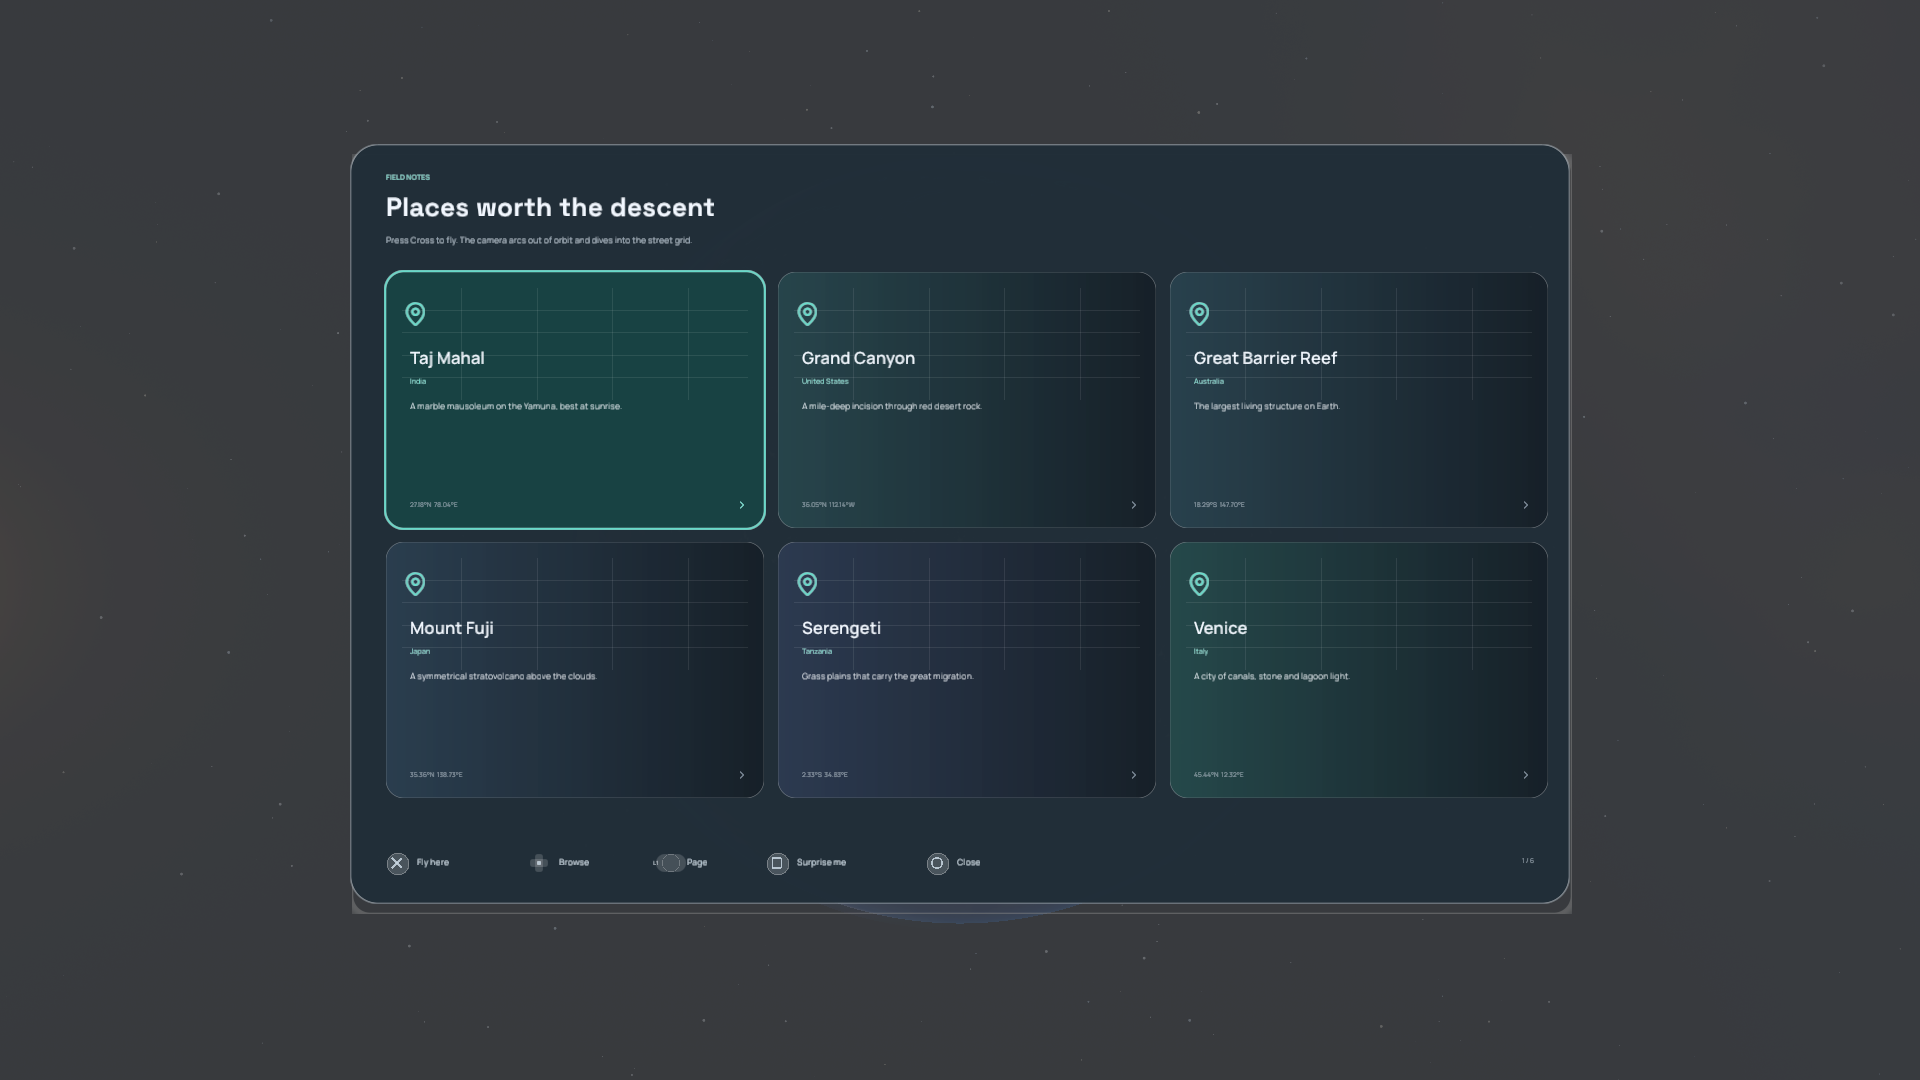
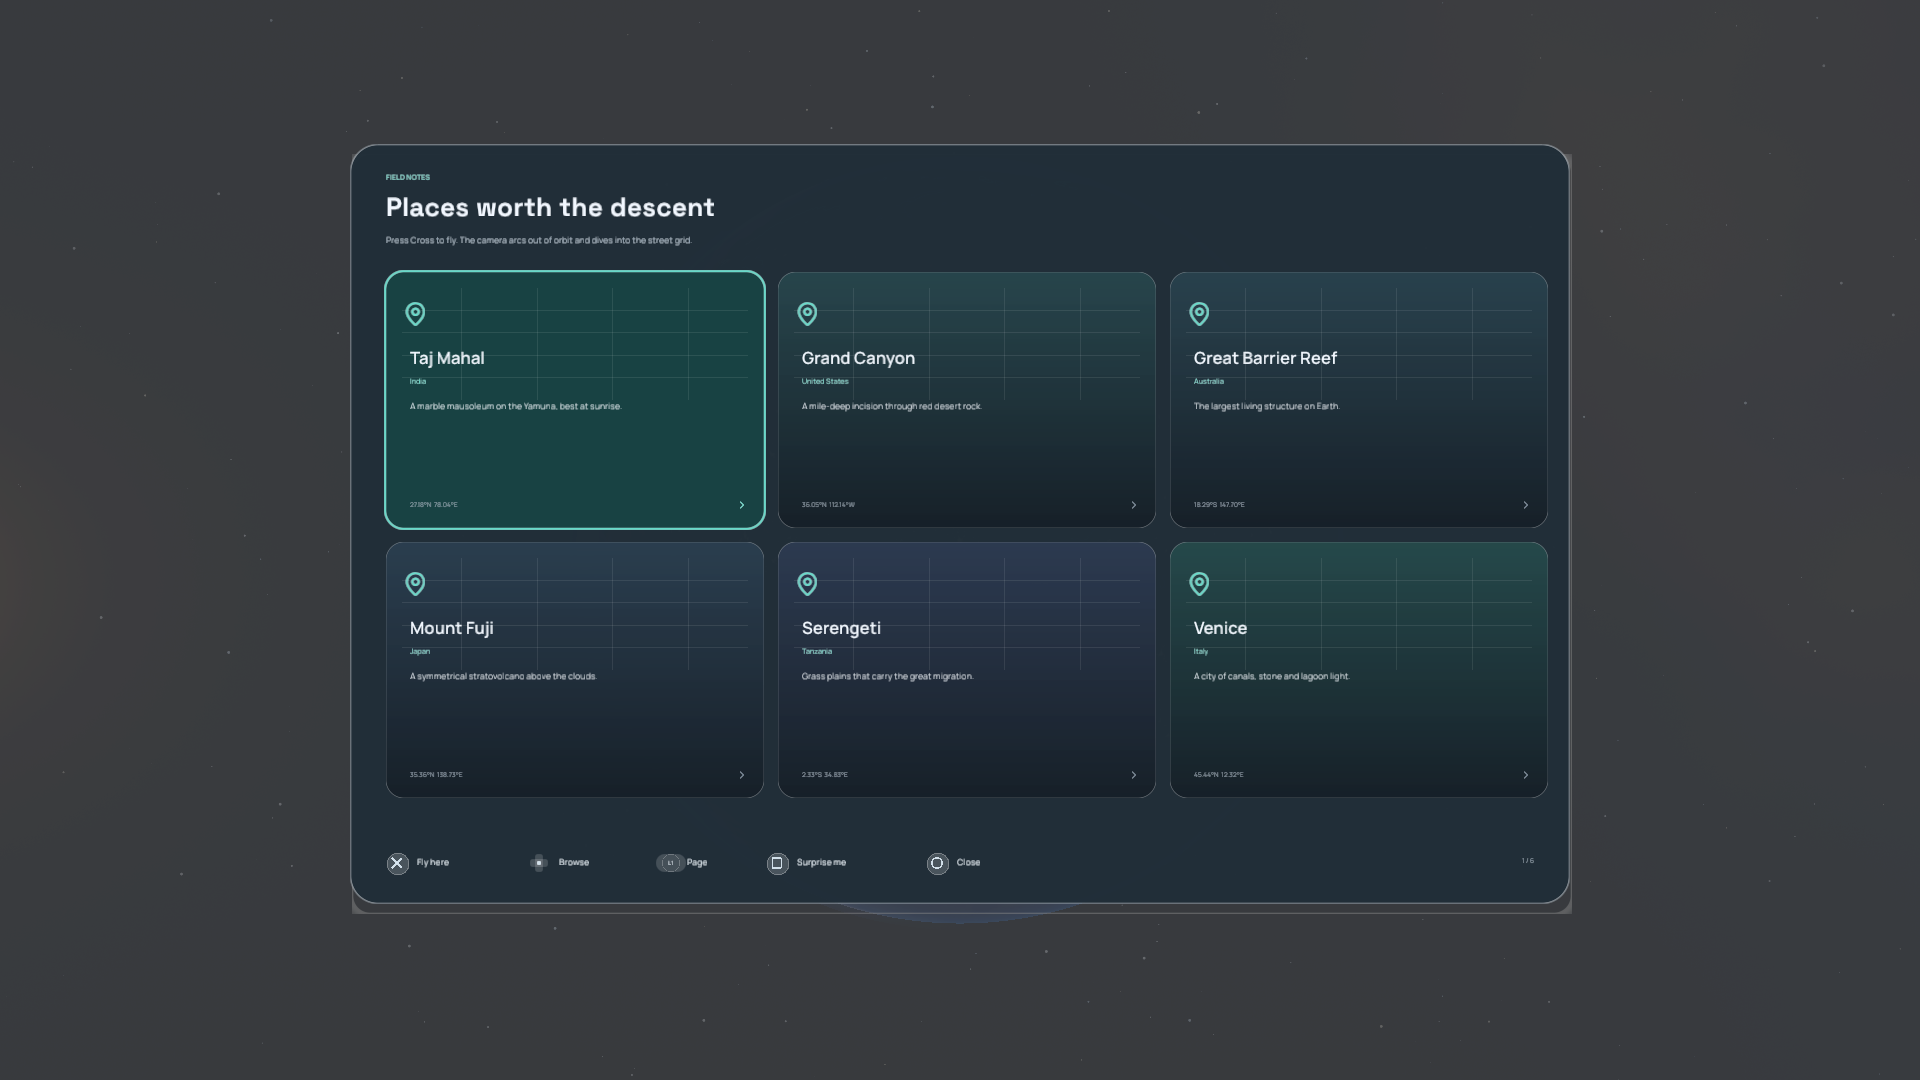
Polish HUD alignment, wind density and final screenshots

diff --git a/src/app/screens.cpp b/src/app/screens.cpp
@@ -73,8 +73,8 @@ void App::draw_brand(float x, float y, float scale) {
 
 void App::draw_top_bar() {
     const float w = ui_.virtual_width();
-    ui_.rect({0, 0, w, 92}, hex(0x03070C, 0.78f));
-    ui_.rounded_rect_gradient({0, 92, w, 72}, 0, hex(0x03070C, 0.78f), hex(0x03070C, 0.0f));
+    ui_.rect({0, 0, w, 92}, hex(0x03070C, 0.92f));
+    ui_.gradient_rect({0, 92, w, 88}, hex(0x03070C, 0.92f), hex(0x03070C, 0.0f));
     draw_brand(44, 24, 1.0f);
 
     const float tab_w = 152;
@@ -529,8 +529,9 @@ void App::draw_center_reticle() {
     name_style.max_width = pill.w;
     ui_.text(name_style, label, pill.x, pill.y + 6);
     if (!camera_.flying) {
-        ui_.text(style(ui_.font_ui(), 8.5f, kDim, 1), "PRESS CROSS TO FLY HERE", pill.x,
-                 pill.y + 31);
+        TextStyle hint = style(ui_.font_ui(), 9.5f, kMuted, 1);
+        hint.max_width = pill.w;
+        ui_.text(hint, "PRESS CROSS TO FLY HERE", pill.x, pill.y + 31);
     } else {
         const float progress = static_cast<float>(clamp(camera_.fly_t, 0.0, 1.0));
         ui_.rounded_rect({pill.x + 16, pill.y + pill.h + 7, (pill.w - 32) * progress, 2}, 1, kWarm);
@@ -606,7 +607,7 @@ void App::draw_globe_hud() {
     draw_map_style_pill();
     draw_layer_rail();
     draw_weather_card(card);
-    ui_.rounded_rect_gradient({0, h - 154, w, 154}, 0, hex(0x02050A, 0.0f), hex(0x02050A, 0.82f));
+    ui_.gradient_rect({0, h - 160, w, 160}, hex(0x02050A, 0.0f), hex(0x02050A, 0.92f));
     draw_controller_prompts();
     draw_attribution();
     if (modal_ != ModalNone) return;
@@ -635,7 +636,8 @@ void App::draw_controller_prompts() {
 
 void App::draw_prompt(float x, float y, const char *glyph, const std::string &label) {
     const std::string key = glyph;
-    const Color line = hex(0xBFD0DD, 0.86f);
+    const Color line = hex(0xD7E6F1, 0.95f);
+    float label_x = x + 31;
     if (key == "cross" || key == "circle" || key == "square" || key == "triangle") {
         ui_.circle(x + 12, y + 12, 11, hex(0xFFFFFF, 0.10f));
         ui_.ring(x + 12, y + 12, 11, 1.0f, hex(0xFFFFFF, 0.18f));
@@ -659,15 +661,18 @@ void App::draw_prompt(float x, float y, const char *glyph, const std::string &la
         ui_.rounded_rect({x + 7, y + 2, 8, 18}, 3, hex(0xFFFFFF, 0.09f));
         ui_.circle(x + 11, y + 11, 2.2f, line);
     } else {
-        const Rect pill(x, y + 2, 30, 18);
+        const float key_width = (key == "options" || key == "touchpad") ? 46.0f : 30.0f;
+        const Rect pill(x, y + 2, key_width, 18);
         ui_.rounded_rect(pill, 9, hex(0xFFFFFF, 0.09f));
-        ui_.ring(x + 15, y + 11, 9, 0.8f, hex(0xFFFFFF, 0.14f));
+        ui_.ring(x + key_width * 0.5f, y + 11, 9, 0.8f, hex(0xFFFFFF, 0.14f));
         TextStyle key_style = style(ui_.font_semibold(), 8, line, 1);
+        key_style.max_width = pill.w;
         std::string text = key;
         for (auto &c : text) c = static_cast<char>(std::toupper(static_cast<unsigned char>(c)));
         ui_.text(key_style, text, pill.x, pill.y + 5);
+        label_x = x + key_width + 1.0f;
     }
-    ui_.text(style(ui_.font_medium(), 12, kMuted), label, x + 31, y + 4);
+    ui_.text(style(ui_.font_medium(), 12, hex(0xD9E6EF, 0.95f)), label, label_x, y + 4);
 }
 
 void App::draw_attribution() {
@@ -767,10 +772,12 @@ void App::draw_flights_hud() {
         ui_.rounded_rect({mode.x + 94, mode.y + 3, 90, 26}, 13, hex(0x23313F, 0.95f));
     else
         ui_.rounded_rect({mode.x + 3, mode.y + 3, 90, 26}, 13, hex(0x123B3C, 0.95f));
-    ui_.text(style(ui_.font_semibold(), 10, flight_world_ ? kMuted : kAccent, 1), "LOCAL",
-             mode.x + 3, mode.y + 10);
-    ui_.text(style(ui_.font_semibold(), 10, flight_world_ ? kText : kMuted, 1), "WORLD",
-             mode.x + 94, mode.y + 10);
+    TextStyle mode_style = style(ui_.font_semibold(), 10,
+                                 flight_world_ ? kMuted : kAccent, 1);
+    mode_style.max_width = 90;
+    ui_.text(mode_style, "LOCAL", mode.x + 3, mode.y + 10);
+    mode_style.color = flight_world_ ? kText : kMuted;
+    ui_.text(mode_style, "WORLD", mode.x + 94, mode.y + 10);
     add_hit(mode, [this] {
         flight_world_ = !flight_world_;
         camera_.set_focus(settings_.home_lat, settings_.home_lon, flight_world_ ? 12000000.0 : 2200000.0);
@@ -827,8 +834,10 @@ void App::draw_flights_hud() {
         ui_.text(style(ui_.font_display_bold(), 24, kText), callsign, detail.x + 20, detail.y + 16);
         ui_.rounded_rect({detail.x + detail.w - 116, detail.y + 16, 96, 22}, 11,
                          hex(0x123B3C, 0.8f));
-        ui_.text(style(ui_.font_semibold(), 8.5f, kAccent, 1),
-                 flight_world_ ? "WORLD" : "ADS-B", detail.x + detail.w - 116, detail.y + 23);
+        TextStyle badge = style(ui_.font_semibold(), 8.5f, kAccent, 1);
+        badge.max_width = 96;
+        ui_.text(badge, flight_world_ ? "WORLD" : "ADS-B", detail.x + detail.w - 116,
+                 detail.y + 23);
         const std::string city = aircraft.nearest_city.empty() ? aircraft.country
                                                                 : aircraft.nearest_city + ", " + aircraft.nearest_country;
         ui_.text(style(ui_.font_ui(), 10.5f, kMuted), city, detail.x + 20, detail.y + 48);
@@ -853,7 +862,7 @@ void App::draw_flights_hud() {
                  "ADS-B position reports are not flight plans; routes are inferred.", detail.x + 20,
                  detail.y + detail.h - 24);
     }
-    ui_.rounded_rect_gradient({0, h - 154, w, 154}, 0, hex(0x02050A, 0.0f), hex(0x02050A, 0.82f));
+    ui_.gradient_rect({0, h - 160, w, 160}, hex(0x02050A, 0.0f), hex(0x02050A, 0.92f));
     draw_controller_prompts();
     draw_attribution();
     if (screen_fade_ < 1.0f)
@@ -913,8 +922,9 @@ void App::draw_satellite_detail(const Rect &rect) {
     ui_.text(style(ui_.font_ui(), 10.5f, kMuted),
              sat->country + " · NORAD " + std::to_string(sat->norad), rect.x + 32, rect.y + 58);
     ui_.rounded_rect({rect.x + rect.w - 106, rect.y + 24, 86, 22}, 11, with_alpha(category, 0.15f));
-    ui_.text(style(ui_.font_semibold(), 8, category, 1), sat->category, rect.x + rect.w - 106,
-             rect.y + 31);
+    TextStyle category_style = style(ui_.font_semibold(), 8, category, 1);
+    category_style.max_width = 86;
+    ui_.text(category_style, sat->category, rect.x + rect.w - 106, rect.y + 31);
 
     const char *labels[] = {"ALTITUDE", "VELOCITY", "PERIOD", "INCLINATION", "LAUNCH", "ORBIT"};
     const std::string values[] = {
@@ -1073,7 +1083,7 @@ void App::draw_satellites_hud() {
 void App::draw_ambient() {
     const float w = ui_.virtual_width();
     const float h = ui_.virtual_height();
-    ui_.rounded_rect_gradient({0, 0, w, 170}, 0, hex(0x02050A, 0.55f), hex(0x02050A, 0.0f));
+    ui_.gradient_rect({0, 0, w, 170}, hex(0x02050A, 0.55f), hex(0x02050A, 0.0f));
     TextStyle clock = style(ui_.font_display_bold(), 46, hex(0xF5FBFF, 0.92f), 2);
     clock.max_width = 420;
     ui_.text(clock, current_clock(), w - 44 - 400, 26);

diff --git a/src/app/screens_settings.cpp b/src/app/screens_settings.cpp
@@ -223,8 +223,9 @@ void App::draw_location_modal() {
              location_query_.empty() ? "Curated starting points" : "Best matches",
              results.x + results.w, results.y - 20);
     if (location_results_.empty()) {
-        ui_.text(style(ui_.font_medium(), 12, kMuted, 1), "No place matches that search",
-                 results.x, results.y + 30);
+        TextStyle empty_style = style(ui_.font_medium(), 12, kMuted, 1);
+        empty_style.max_width = results.w;
+        ui_.text(empty_style, "No place matches that search", results.x, results.y + 30);
     }
     ui_.push_clip({results.x - 8, results.y, results.w + 16, results.h});
     const int visible = 9;
@@ -421,7 +422,10 @@ void App::draw_help_modal() {
                 } else {
                     draw_prompt(x, y, rows[i].glyph, "");
                 }
-                ui_.text(style(ui_.font_medium(), 11.5f, kText), rows[i].label, x + 32, y + 2);
+                const bool wide_key = std::string(rows[i].glyph) == "touchpad" ||
+                                      std::string(rows[i].glyph) == "options";
+                const float label_x = wide_key ? x + 52 : x + 32;
+                ui_.text(style(ui_.font_medium(), 11.5f, kText), rows[i].label, label_x, y + 2);
                 y += 43;
             }
         };
@@ -430,7 +434,7 @@ void App::draw_help_modal() {
         ui_.rounded_rect({panel.x + 36, panel.y + panel.h - 96, panel.w - 72, 1}, 0.5f,
                          hex(0xFFFFFF, 0.06f));
         ui_.text(style(ui_.font_ui(), 9.5f, kDim),
-                 "Tip: click a city label with the mouse. The right stick tilts the camera once you are below 260 km.",
+                 "Tip: click a city label with the mouse. On the surface the right stick rotates the map heading.",
                  panel.x + 36, panel.y + panel.h - 76);
     } else {
         const char *lines1[] = {

diff --git a/src/gfx/ui.cpp b/src/gfx/ui.cpp
@@ -228,7 +228,7 @@ void Ui::add_quad(const Rect &r, float local_x, float local_y, float half_w, flo
     if (r.w <= 0 || r.h <= 0) return;
     add_vertex(r.x, r.y, u0, v1, c0, local_x - half_w, local_y - half_h, half_w, half_h, radius,
                mode, texture);
-    add_vertex(r.x + r.w, r.y, u1, v1, c1, local_x + half_w, local_y - half_h, half_w, half_h,
+    add_vertex(r.x + r.w, r.y, u1, v1, c0, local_x + half_w, local_y - half_h, half_w, half_h,
                radius, mode, texture);
     add_vertex(r.x + r.w, r.y + r.h, u1, v0, c1, local_x + half_w, local_y + half_h, half_w,
                half_h, radius, mode, texture);
@@ -236,7 +236,7 @@ void Ui::add_quad(const Rect &r, float local_x, float local_y, float half_w, flo
                mode, texture);
     add_vertex(r.x + r.w, r.y + r.h, u1, v0, c1, local_x + half_w, local_y + half_h, half_w,
                half_h, radius, mode, texture);
-    add_vertex(r.x, r.y + r.h, u0, v0, c0, local_x - half_w, local_y + half_h, half_w, half_h,
+    add_vertex(r.x, r.y + r.h, u0, v0, c1, local_x - half_w, local_y + half_h, half_w, half_h,
                radius, mode, texture);
 }
 
@@ -249,6 +249,14 @@ void Ui::rounded_rect(const Rect &r, float radius, Color color) {
     const float s = scale_;
     add_quad({r.x * s, r.y * s, r.w * s, r.h * s}, 0, 0, r.w * s * 0.5f, r.h * s * 0.5f,
              radius * s, color, color, 0, 0, 1, 1, 2.0f, white_.id);
+}
+
+void Ui::gradient_rect(const Rect &r, Color top, Color bottom) {
+    // A plain quad: mode 0 keeps the interpolated alpha without the SDF edge
+    // coverage that would otherwise leave a seam where two scrims meet.
+    const float s = scale_;
+    add_quad({r.x * s, r.y * s, r.w * s, r.h * s}, 0, 0, 0, 0, 0, top, bottom, 0, 0, 1, 1,
+             0.0f, white_.id);
 }
 
 void Ui::rounded_rect_gradient(const Rect &r, float radius, Color top, Color bottom) {

diff --git a/src/gfx/earth.cpp b/src/gfx/earth.cpp
@@ -230,7 +230,7 @@ bool EarthRenderer::init(const std::string &asset_dir, const std::string &data_d
     // the show, so particles are deliberately sparse and fine.
     std::mt19937 rng(0x51a7b00bu);
     std::uniform_real_distribution<float> random(0.0f, 1.0f);
-    particles_.resize(10000);
+    particles_.resize(7000);
     for (auto &p : particles_) {
         p.lat = std::asin(2.0f * random(rng) - 1.0f) / static_cast<float>(kDeg);
         p.lon = random(rng) * 360.0f - 180.0f;
@@ -684,7 +684,9 @@ void EarthRenderer::draw_wind(const Camera &camera, float dt) {
     update_particles(dt);
     const float offset = static_cast<float>(clamp(camera.height * 0.0011, 4.0, 9000.0));
     const float radius = static_cast<float>(kEarthRadius) + offset;
-    const float tail_seconds = static_cast<float>(clamp(camera.height / 200000.0, 1.0, 60.0));
+    const float tail_seconds = static_cast<float>(clamp(camera.height / 700000.0, 1.0, 12.0));
+    const float altitude_fade =
+        0.42f + 0.58f * (1.0f - static_cast<float>(smoothstep(2.0e6, 10.0e6, camera.height)));
     wind_lines_.begin();
     for (const auto &p : particles_) {
         float u = 0, v = 0;
@@ -702,7 +704,7 @@ void EarthRenderer::draw_wind(const Camera &camera, float dt) {
         if (tail_lon < -180) tail_lon += 360;
         const Vec3 a = latlon_to_unit(tail_lat, tail_lon) * radius;
         const Vec3 b = latlon_to_unit(p.lat, p.lon) * radius;
-        const float alpha = 0.26f + 0.60f * t;
+        const float alpha = (0.12f + 0.40f * t) * altitude_fade;
         const float ca[] = {a.x, a.y, a.z, 0.55f + 0.38f * t, 0.95f, 0.86f, alpha * 0.15f};
         const float cb[] = {b.x, b.y, b.z, 0.65f + 0.30f * t, 1.0f, 0.90f, alpha};
         wind_lines_.add_colored(ca, ca + 3, cb, cb + 3);

diff --git a/src/gfx/ui.hpp b/src/gfx/ui.hpp
@@ -72,6 +72,7 @@ public:
 
     void rect(const Rect &rect, Color color);
     void rounded_rect(const Rect &rect, float radius, Color color);
+    void gradient_rect(const Rect &rect, Color top, Color bottom);
     void rounded_rect_gradient(const Rect &rect, float radius, Color top, Color bottom);
     void glow(const Rect &rect, float radius, float blur, Color color);
     void line(float x0, float y0, float x1, float y1, float thickness, Color color);
